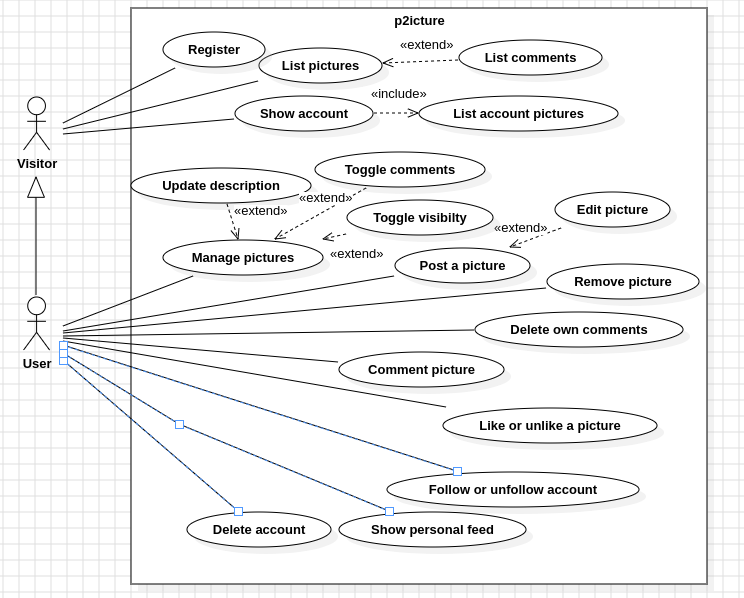
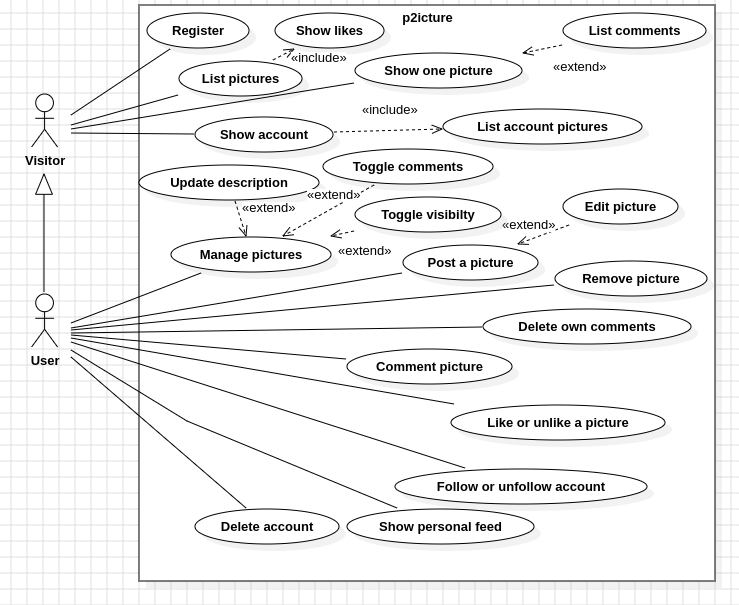
updated diagrams

Changed region(s): [[0.0311, 0.0, 0.9959, 0.9933], [0.2801, 0.7224, 0.4046, 0.7826]]

diff --git a/README.md b/README.md
@@ -102,3 +102,9 @@ Projet pour voir MySQL/MariaDB
 À partir de ce diagramme de use case, faire un diagramme de classe pour identifier les entités et leurs relations
 
 * Ensuite créer une base de donnée et un fichier schema.sql avec les create table en faisant attention aux clés étrangères/tables de jointures etc.
+* Insérer les data nécessaires pour identifier quelques requêtes de tests pour les fonctionnalités suivantes :
+    * List picture with likes
+    * Show one picture with comments
+    * Show one account with pictures
+    * Subscribe to an account
+    * Show personal feed (pictures from the subscribed accounts, by date)
